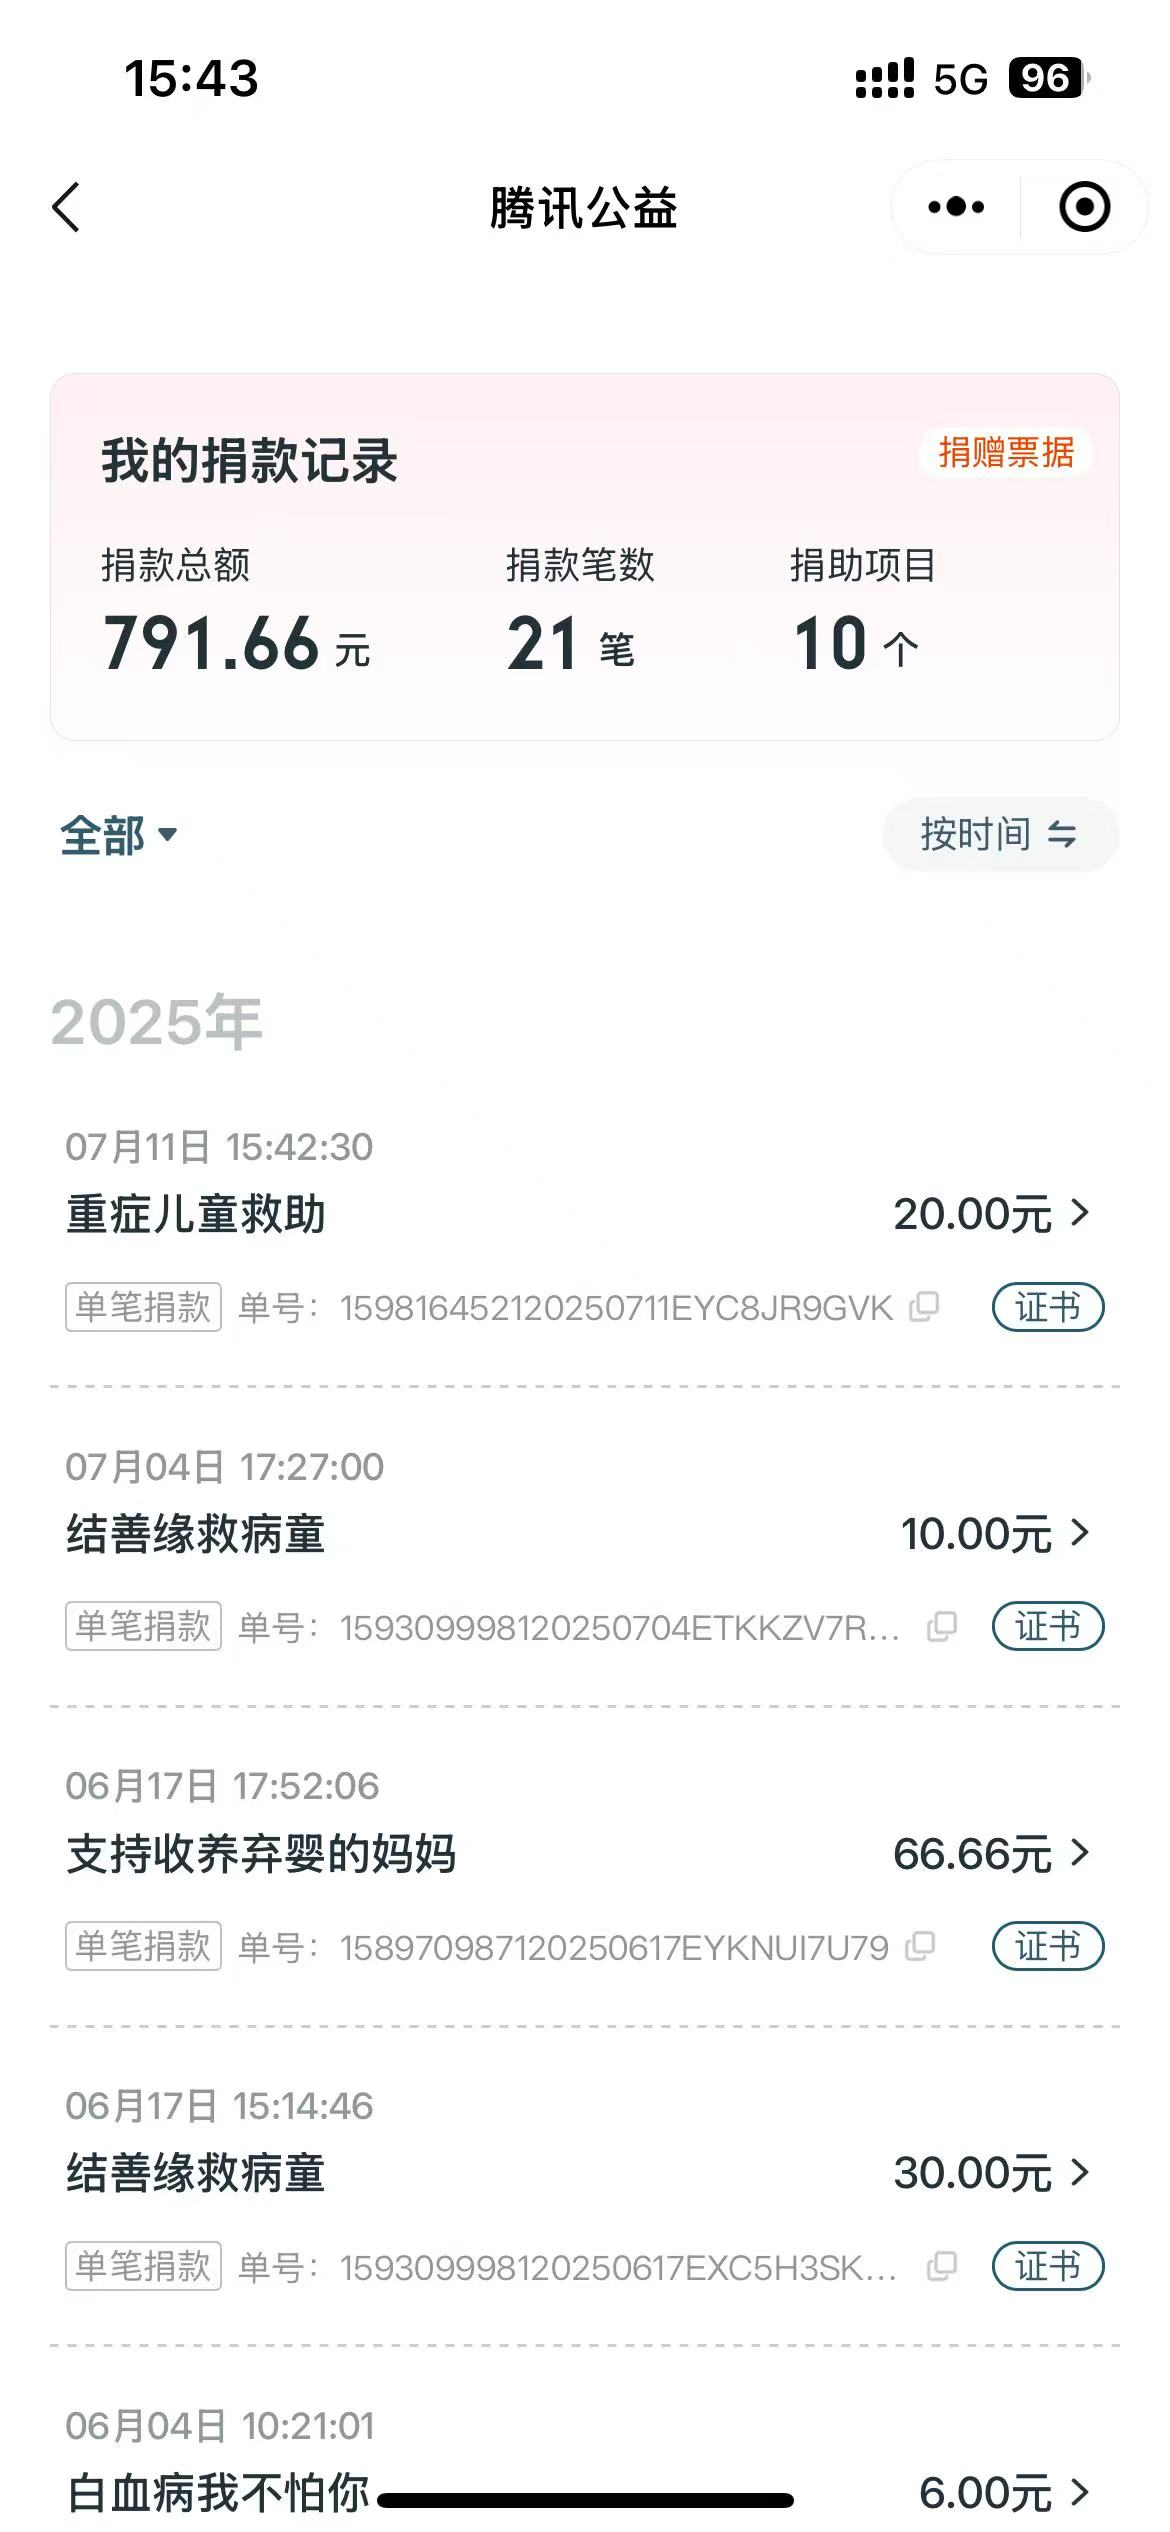
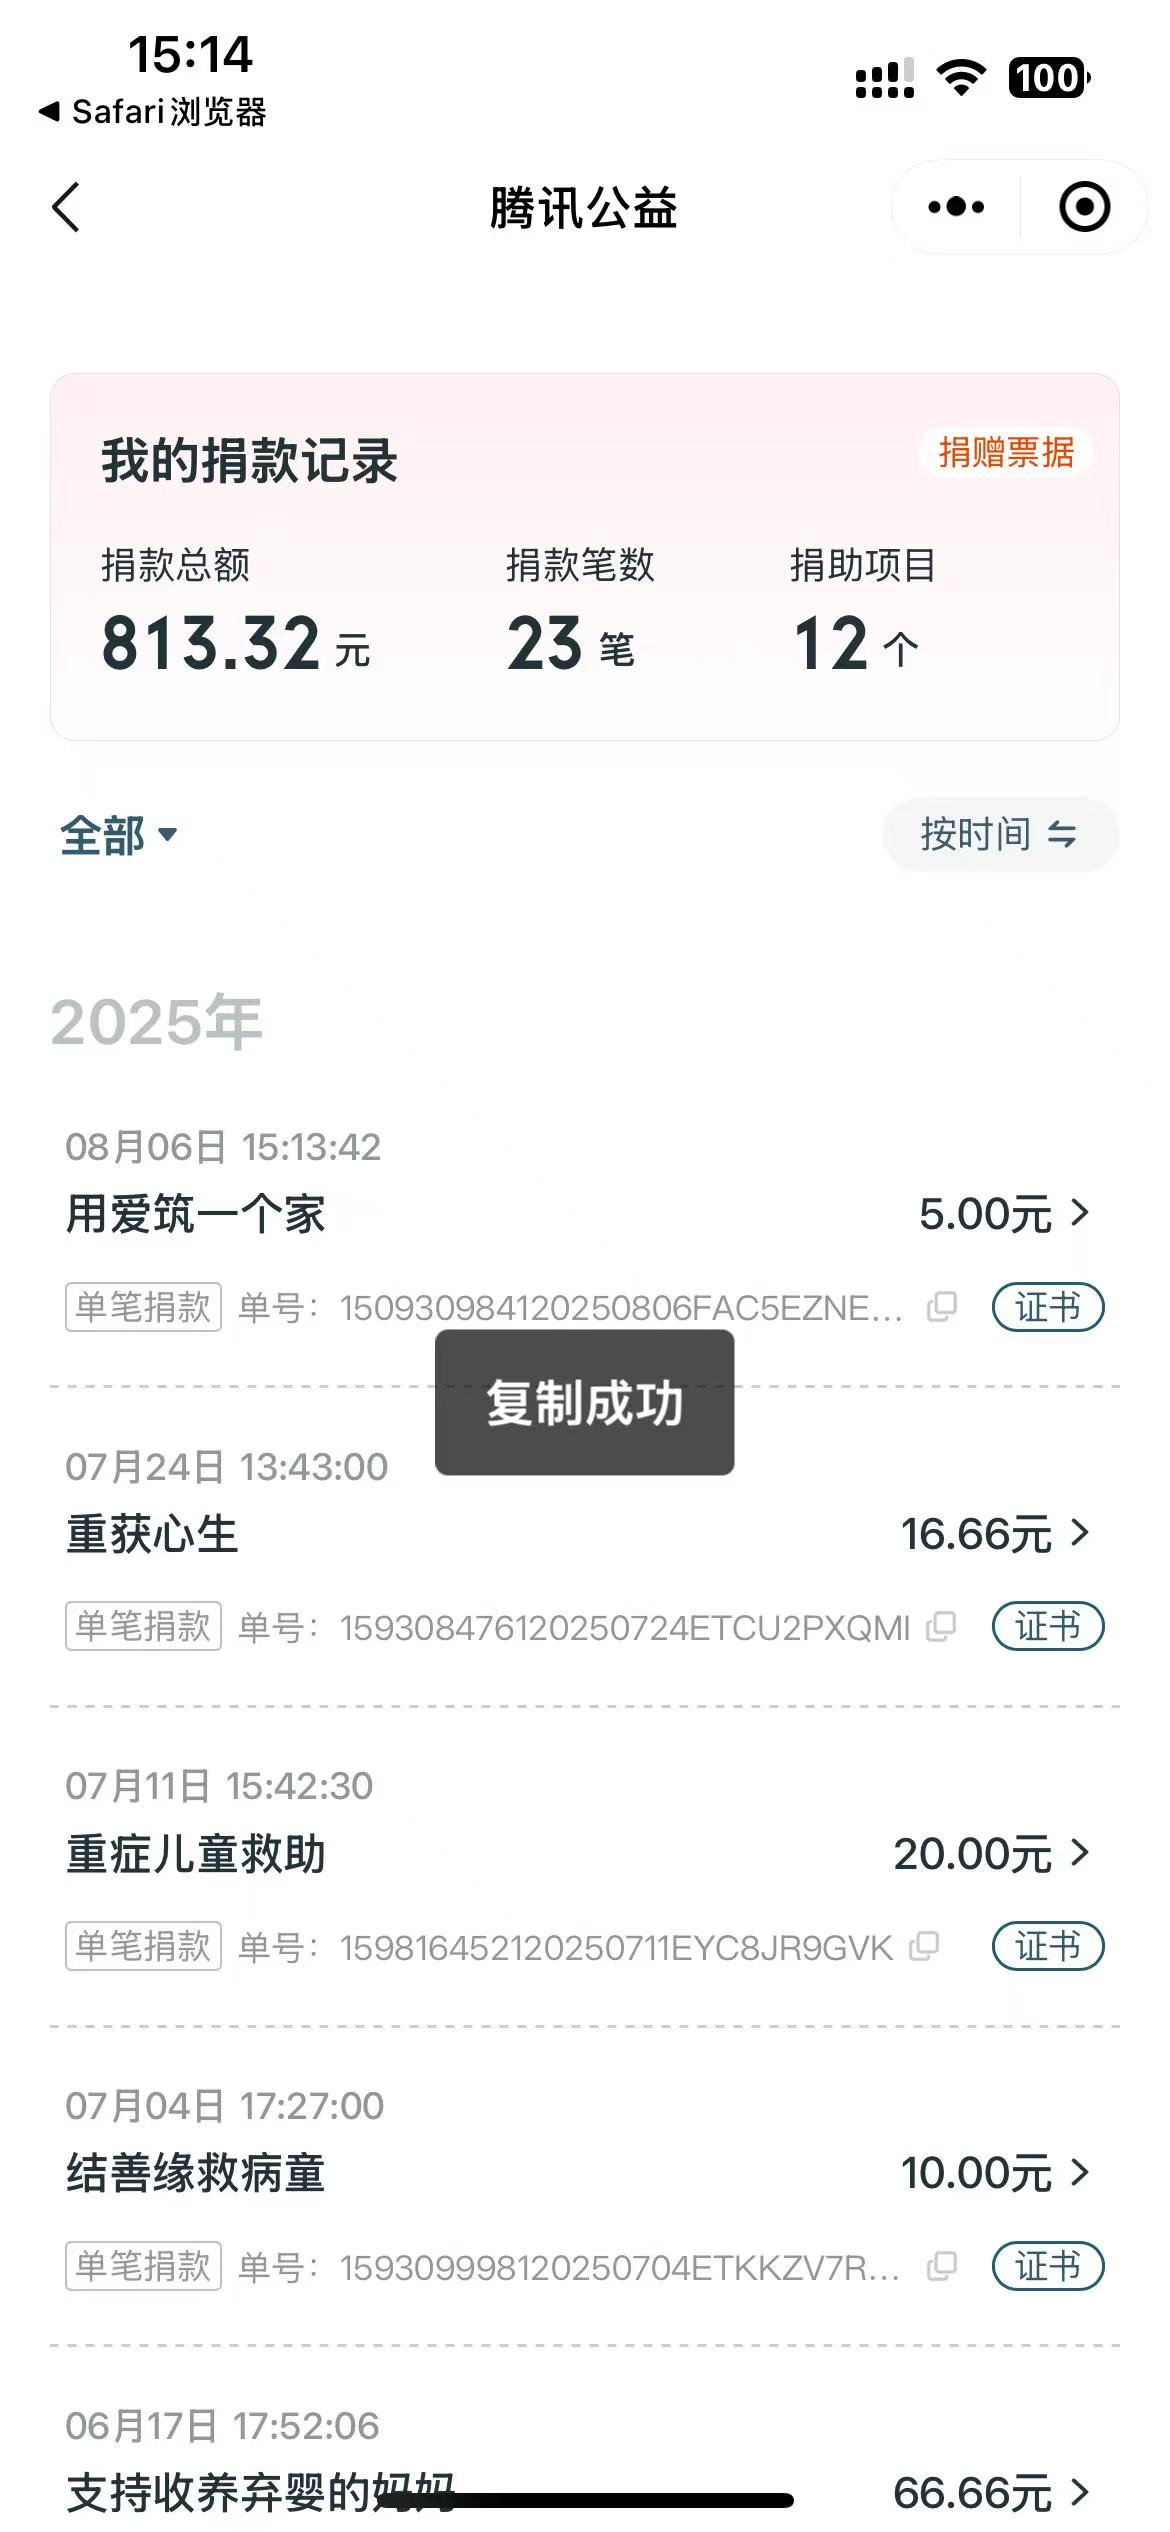
世界破破烂烂，我们缝缝补补

diff --git a/examples/cesiumEx/latlng.js b/examples/cesiumEx/latlng.js
@@ -330,3 +330,102 @@ latlng.aroundPoint = {
         this.isStart = false;
     }
 };
+
+latlng.getFrustumGroundIntersectionPoints = function (viewer) {
+    const scene = viewer.scene;
+    const camera = viewer.camera;
+    const ellipsoid = scene.globe.ellipsoid;
+    const canvas = scene.canvas;
+
+    // 定义屏幕四个角的坐标
+    const corners = [
+        new Cesium.Cartesian2(0, 0),                 // 左下角
+        new Cesium.Cartesian2(canvas.width, 0),      // 右下角
+        new Cesium.Cartesian2(0, canvas.height),     // 左上角
+        new Cesium.Cartesian2(canvas.width, canvas.height) // 右上角
+    ];
+
+    const intersectionPoints = [];
+
+    // 遍历四个角点
+    for (let i = 0; i < corners.length; i++) {
+        // 获取从相机位置通过屏幕角点的射线
+        const ray = camera.getPickRay(corners[i]);
+        if (!ray) continue;
+
+        // 求射线与地球表面的交点
+        const intersection = scene.globe.pick(ray, scene);
+        if (intersection) {
+            var cartographic_s = ellipsoid.cartesianToCartographic(intersection);
+            var lat_10 = Cesium.Math.toDegrees(cartographic_s.latitude);
+            var lng_10 = Cesium.Math.toDegrees(cartographic_s.longitude);
+
+            intersectionPoints.push(
+                {
+                    x: lng_10,
+                    y: lat_10
+                }
+            );
+        } else {
+            // 如果没有直接交点（如看向天空），尝试计算与椭球体的交点
+        }
+    }
+
+    if (intersectionPoints.length >= 2) {
+
+        var position = camera.positionCartographic;
+
+        var bookmark = {};
+        bookmark.y = Number(Cesium.Math.toDegrees(position.latitude).toFixed(6));
+        bookmark.x = Number(Cesium.Math.toDegrees(position.longitude).toFixed(6));
+        bookmark.z = Number(position.height.toFixed(1));
+        bookmark.heading = Number(Cesium.Math.toDegrees(camera.heading || -90).toFixed(1));
+        bookmark.pitch = Number(Cesium.Math.toDegrees(camera.pitch || 0).toFixed(1));
+        bookmark.roll = Number(Cesium.Math.toDegrees(camera.roll || 0).toFixed(1));
+
+        // 左下
+        var lat_0 = intersectionPoints[0].y;
+        var lng_0 = intersectionPoints[0].x;
+
+        // 右下
+        var lat_1 = intersectionPoints[1].y;
+        var lng_1 = intersectionPoints[1].x;
+
+        // 发射距离
+        var from = turf.point([lng_0, lat_0]);
+        var to = turf.point([lng_1, lat_1]);
+        var options = { units: 'kilometers' };
+        var distance = turf.distance(from, to, options);
+
+        // 左上
+        var point_0 = turf.point([lng_0, lat_0]);
+        distance = distance * 3;
+        len = distance / 3 * 1000 / 10;
+        var bearing = bookmark.heading - 30;
+        var options = { units: 'kilometers' };
+
+        var destination = turf.destination(point_0, distance, bearing, options);
+        let des_0 = destination.geometry.coordinates
+
+        // 右上
+        var point_1 = turf.point([lng_1, lat_1]);
+        var bearing = bookmark.heading + 30;
+        var destination = turf.destination(point_1, distance, bearing, options);
+        let des_1 = destination.geometry.coordinates
+
+        intersectionPoints.push(
+            {
+                x: des_0[0],
+                y: des_0[1]
+            }
+        );
+
+        intersectionPoints.push(
+            {
+                x: des_1[0],
+                y: des_1[1]
+            }
+        );
+    }
+    return intersectionPoints;
+};

diff --git a/donate/index.html b/donate/index.html
@@ -37,6 +37,7 @@
     <img src="./159309998120250704ETKKZV7RW6.jpg">
     <img src="./159816452120250711EYC8JR9GVK.jpg">
     <img src="./159308476120250724ETCU2PXQMI.jpg">
+    <img src="./150930984120250806FAC5EZNELD.jpg">
 </body>
 
 </html>

diff --git a/README.md b/README.md
@@ -80,6 +80,7 @@
 | 佚名             | 10   | 2025.07.03 | 
 | 王硕             | 20   | 2025.07.10 | 
 | 陈永涛             | 16.66   | 2025.07.24 | 
+| 佚名             | 5   | 2025.08.06 | 
 
 ### 关于打赏
 - 您的每一笔打赏，我都会原封不动以**您的名义**捐赠到腾讯公益。
